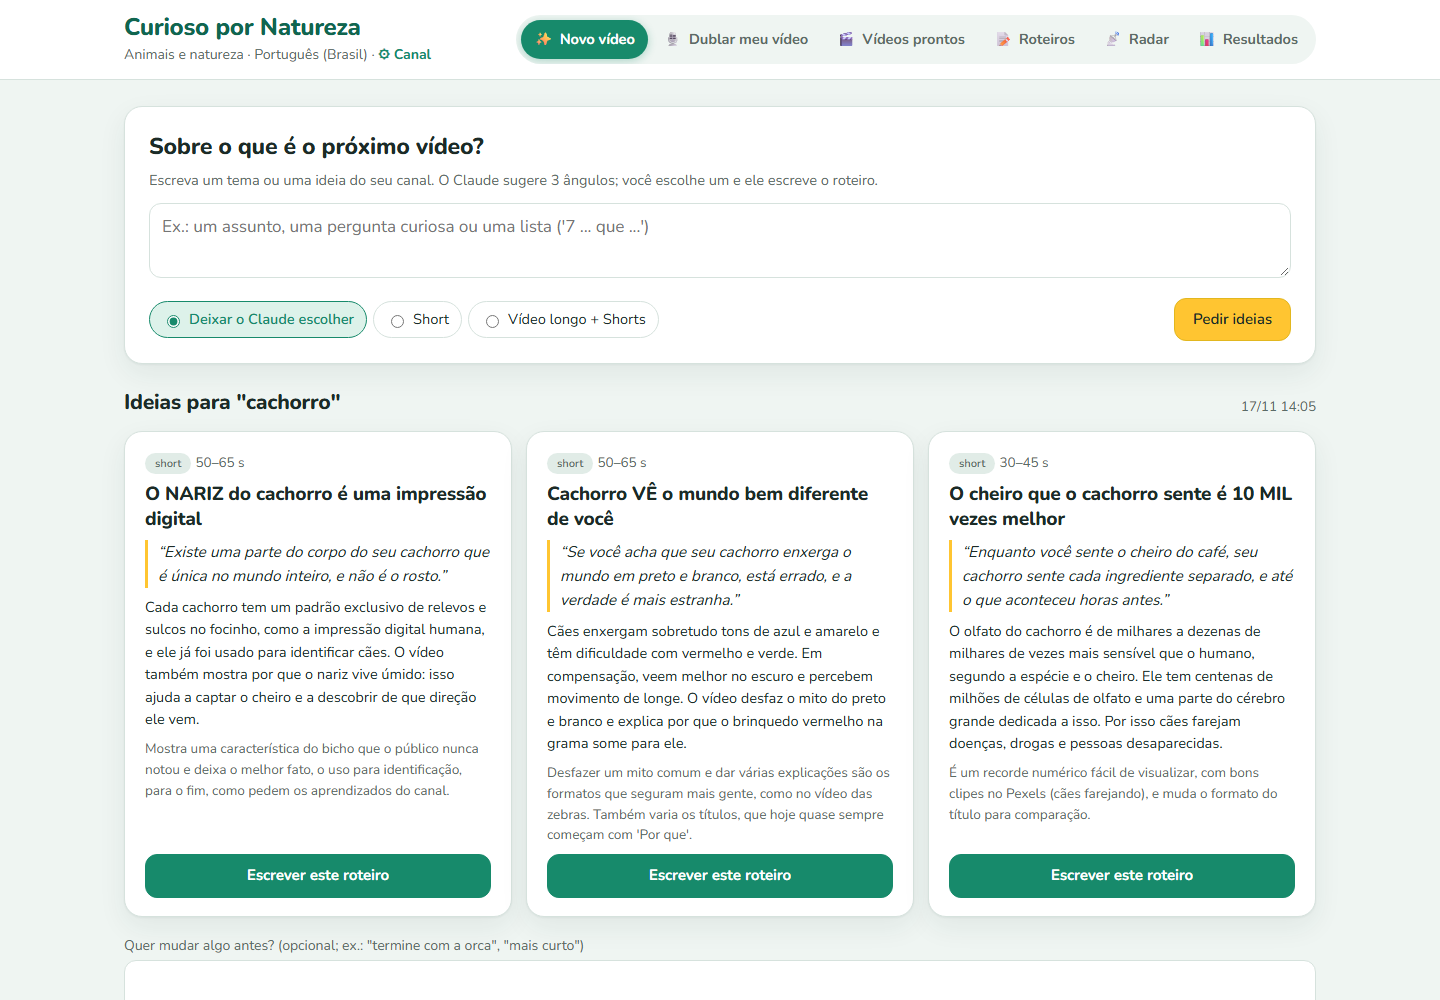
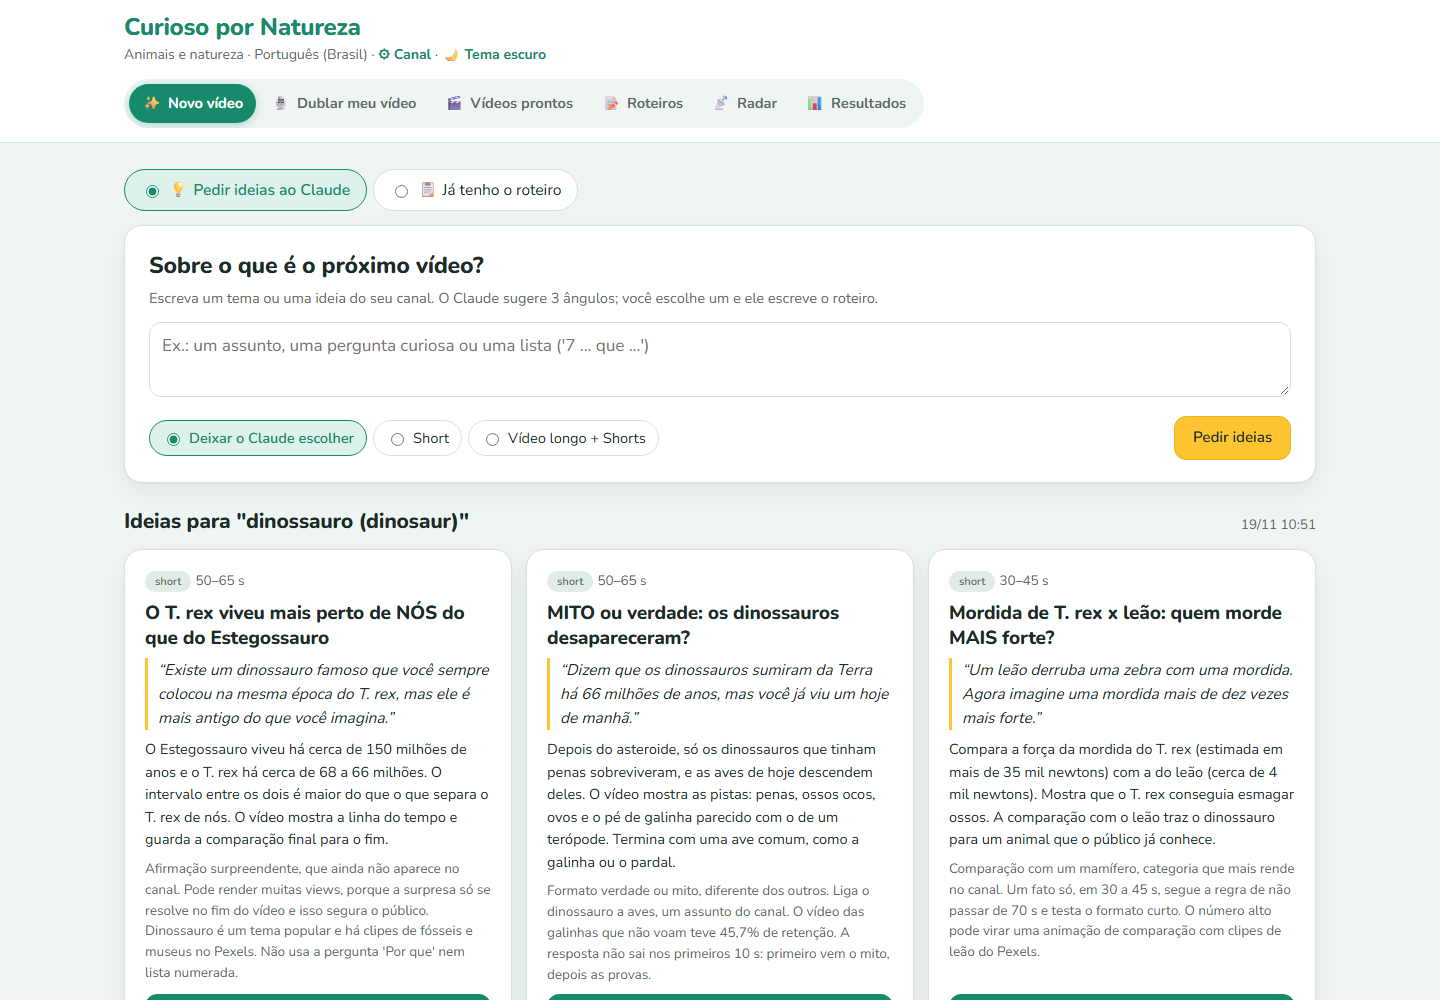
README: novidades da 1.14 e prints novos (Já tenho o roteiro, animações)
- Prints atualizados de Novo vídeo, Vídeos prontos e Roteiros; novos: Já tenho o roteiro e animações
- Painel: ?print (tema claro, sem aviso) e atalho #pronto, usados para tirar os prints

diff --git a/painel/index.html b/painel/index.html
@@ -9,7 +9,8 @@
 <title>Gerador de vídeos — painel</title>
 <script>
   try {
-    const salvo = localStorage.getItem("tema");
+    // ?print: modo para os prints do README (tema claro, sem o aviso da última tarefa)
+    const salvo = location.search.includes("print") ? "claro" : localStorage.getItem("tema");
     document.documentElement.dataset.tema = salvo || (matchMedia("(prefers-color-scheme: dark)").matches ? "escuro" : "claro");
   } catch { document.documentElement.dataset.tema = "claro"; }
 </script>
@@ -588,7 +589,7 @@
 const $ = (s, el = document) => el.querySelector(s);
 const esc = s => String(s ?? "").replace(/[&<>"']/g, c => ({"&":"&amp;","<":"&lt;",">":"&gt;",'"':"&quot;","'":"&#39;"}[c]));
 let estado = { videos: [], roteiros: [], radar: [], tarefa: {} };
-let videoSel = null, acompanhando = false, tarefaFechada = false;
+let videoSel = null, acompanhando = false, tarefaFechada = location.search.includes("print");
 
 async function api(caminho, corpo) {
   let r;
@@ -1367,6 +1368,11 @@ atualizar().then(async () => {
   // atalhos: http://localhost:8765/#radar abre direto na aba; #configurar abre a configuração
   const destino = location.hash.slice(1);
   if (destino === "configurar") abrirConfig(false);
+  else if (destino === "pronto") {  // atalho: Novo vídeo › Já tenho o roteiro
+    irPara("novo");
+    document.querySelector('input[name="modo"][value="pronto"]').checked = true;
+    mostrarModo("pronto");
+  }
   else if (["novo", "dublar", "videos", "roteiros", "radar", "resultados"].includes(destino)) irPara(destino);
 });
 </script>

diff --git a/README.pt-BR.md b/README.pt-BR.md
@@ -12,7 +12,8 @@ para publicar: vídeo, título, descrição, tags, thumbnail e o melhor horário
 - **Radar de temas em alta**: Wikipedia, Google Notícias, Google Trends e YouTube
 - **Ideias e roteiros pelo painel**: o Claude sugere ângulos, confere os fatos e escreve o roteiro
 - **Legendas e outras línguas**: legenda `.srt`, título e descrição traduzidos e **áudio dublado** (inglês/espanhol) para o recurso de várias faixas de áudio do YouTube
-- **Animações**: número contando ("0 → 80 km/h") e comparação com barras
+- **Já tenho o roteiro**: cole o seu texto, escolha Short ou vídeo longo e a voz, e o vídeo sai com as suas palavras
+- **Animações automáticas (Manim)**: onde o texto tem tamanhos, números, datas ou porcentagens, a IA pode trocar os clipes por uma cena animada (barras, medidor, linha do tempo); também há número contando por cima dos clipes
 - **Conferência das imagens**: antes de montar, o Claude olha um quadro de cada clipe e troca os ruins (telão, brinquedo, bicho errado)
 - **Resultados**: envie a exportação do YouTube Studio e veja se os vídeos do app seguram mais o público do que os antigos
 - **Dublar o seu próprio vídeo**: cole um texto e ele ganha narração e legenda
@@ -22,19 +23,36 @@ para publicar: vídeo, título, descrição, tags, thumbnail e o melhor horário
 
 ![Painel: vídeos prontos](docs/prints/videos.png)
 
+## Novidades da versão 1.14
+
+- **📋 Já tenho o roteiro**: na aba Novo vídeo, cole um texto pronto, escolha **Short** (em pé) ou
+  **vídeo longo** (deitado) e a **voz** (Francisca, Antônio ou Thalita, com ▶ ouvir) e clique em
+  **Criar vídeo**. As suas palavras ficam exatamente como estão.
+- **✨ Animações automáticas**: a IA lê o texto e decide sozinha se algum trecho fica melhor como
+  desenho animado: comparação de tamanhos, medidor de velocidade, linha do tempo ou porcentagem. Texto
+  sem dados = vídeo só com clipes. Dá para desligar.
+- **Narração mais confiável**: o app percebe quando o serviço de voz devolve uma frase cortada e grava
+  de novo.
+
+![Animações automáticas no vídeo](docs/prints/animacoes.png)
+
 ## Prints
 
-| Novo vídeo: ideias do Claude | Radar de temas em alta |
+| Novo vídeo: ideias do Claude | Novo vídeo: já tenho o roteiro |
 |---|---|
-| ![Novo vídeo](docs/prints/novo.png) | ![Radar](docs/prints/radar.png) |
+| ![Novo vídeo](docs/prints/novo.png) | ![Já tenho o roteiro](docs/prints/pronto.png) |
 
-| Roteiros: gerar com um clique | Dublar o seu vídeo |
+| Radar de temas em alta | Roteiros: gerar com um clique |
 |---|---|
-| ![Roteiros](docs/prints/roteiros.png) | ![Dublar](docs/prints/dublar.png) |
+| ![Radar](docs/prints/radar.png) | ![Roteiros](docs/prints/roteiros.png) |
 
-| Primeira vez: configure o seu canal | Resultados: os vídeos novos estão funcionando? |
+| Dublar o seu vídeo | Primeira vez: configure o seu canal |
 |---|---|
-| ![Configurar canal](docs/prints/configurar.png) | ![Resultados](docs/prints/resultados.png) |
+| ![Dublar](docs/prints/dublar.png) | ![Configurar canal](docs/prints/configurar.png) |
+
+| Resultados: os vídeos novos estão funcionando? | |
+|---|---|
+| ![Resultados](docs/prints/resultados.png) | |
 
 ## Instalação (Windows)
 

diff --git a/README.md b/README.md
@@ -13,7 +13,8 @@ tags, thumbnail and the best time to post.
 - **Trending topic radar**: Wikipedia, Google News, Google Trends and YouTube
 - **Ideas and scripts from the panel**: Claude suggests angles, fact-checks and writes the script
 - **Subtitles and other languages**: `.srt` captions plus translated title, description and a **dubbed audio track** (English/Spanish) for YouTube's multi-language audio
-- **Animated graphics**: counting numbers ("0 → 80 km/h") and size comparison bars
+- **Bring your own script**: paste your text, pick Short or long video and the voice, and the video keeps your exact words
+- **Automatic animations (Manim)**: where the script mentions sizes, numbers, dates or percentages, the AI can swap the footage for an animated scene (bars, gauge, timeline); counting numbers over the footage too
 - **Footage check**: before editing, Claude looks at a frame of every clip and swaps the bad ones (billboards, toys, wrong animal)
 - **Results**: upload your YouTube Studio export and see whether the app's videos keep viewers watching longer than your old ones
 - **Dub your own videos**: paste a script and your video gets voice-over and captions
@@ -25,19 +26,36 @@ tags, thumbnail and the best time to post.
 
 ![Panel: finished videos](docs/prints/videos.png)
 
+## What's new in 1.14
+
+- **📋 Já tenho o roteiro** (I already have the script): in Novo vídeo, paste a finished text, choose
+  **Short** (vertical) or **long video** (horizontal) and the **voice** (with a ▶ preview button) and
+  click **Criar vídeo**. Your words stay exactly as written.
+- **✨ Automatic animations**: the AI reads the script and decides on its own whether a part works
+  better as an animated scene: size comparison, speed gauge, timeline or percentage. No data in the
+  text = footage only. You can turn it off.
+- **More reliable narration**: the app notices when the voice service returns a cut-off sentence and
+  records it again.
+
+![Automatic animations in a video](docs/prints/animacoes.png)
+
 ## Screenshots
 
-| New video: ideas from Claude | Trending topic radar |
+| New video: ideas from Claude | New video: I already have the script |
 |---|---|
-| ![New video](docs/prints/novo.png) | ![Radar](docs/prints/radar.png) |
+| ![New video](docs/prints/novo.png) | ![Bring your own script](docs/prints/pronto.png) |
 
-| Scripts: render with one click | Dub your own video |
+| Trending topic radar | Scripts: render with one click |
 |---|---|
-| ![Scripts](docs/prints/roteiros.png) | ![Dub](docs/prints/dublar.png) |
+| ![Radar](docs/prints/radar.png) | ![Scripts](docs/prints/roteiros.png) |
 
-| First run: set up your channel | Results: are the new videos working? |
+| Dub your own video | First run: set up your channel |
 |---|---|
-| ![Channel setup](docs/prints/configurar.png) | ![Results](docs/prints/resultados.png) |
+| ![Dub](docs/prints/dublar.png) | ![Channel setup](docs/prints/configurar.png) |
+
+| Results: are the new videos working? | |
+|---|---|
+| ![Results](docs/prints/resultados.png) | |
 
 ## Installation (Windows)
 
